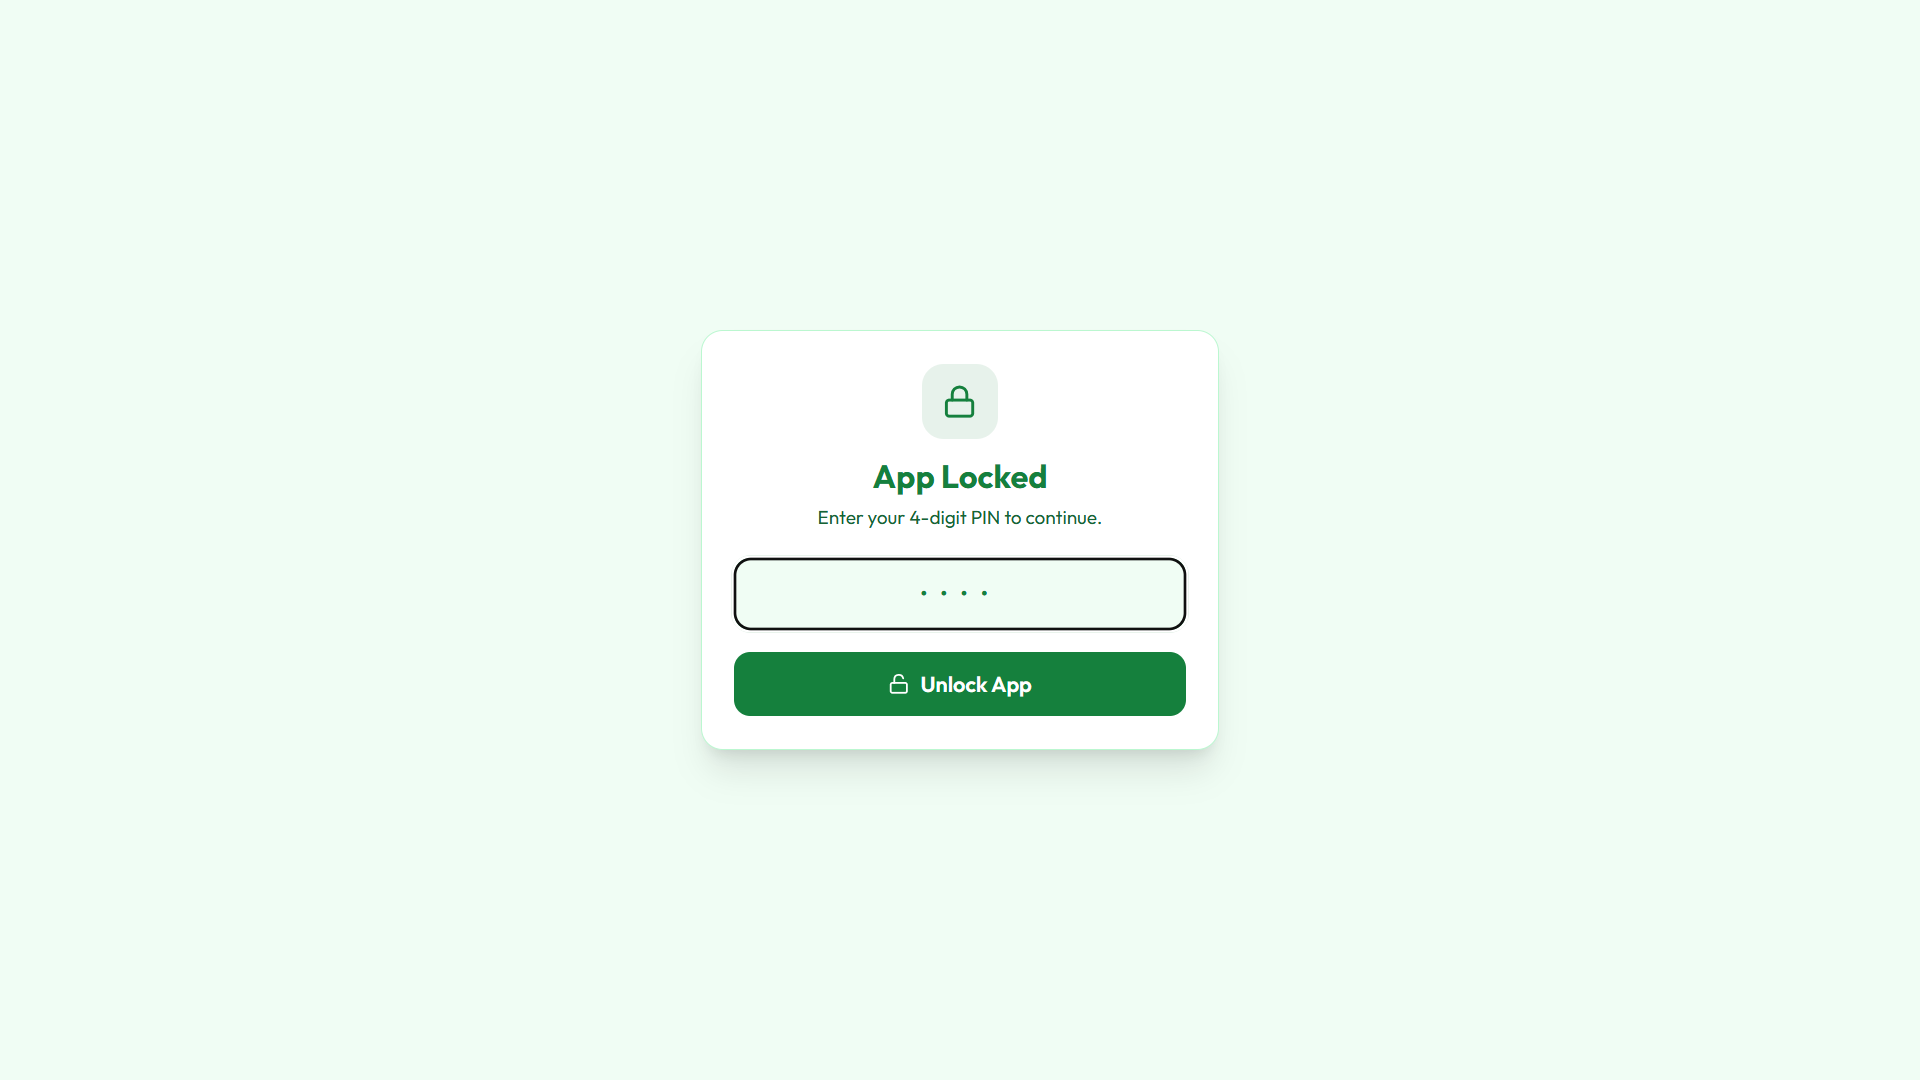
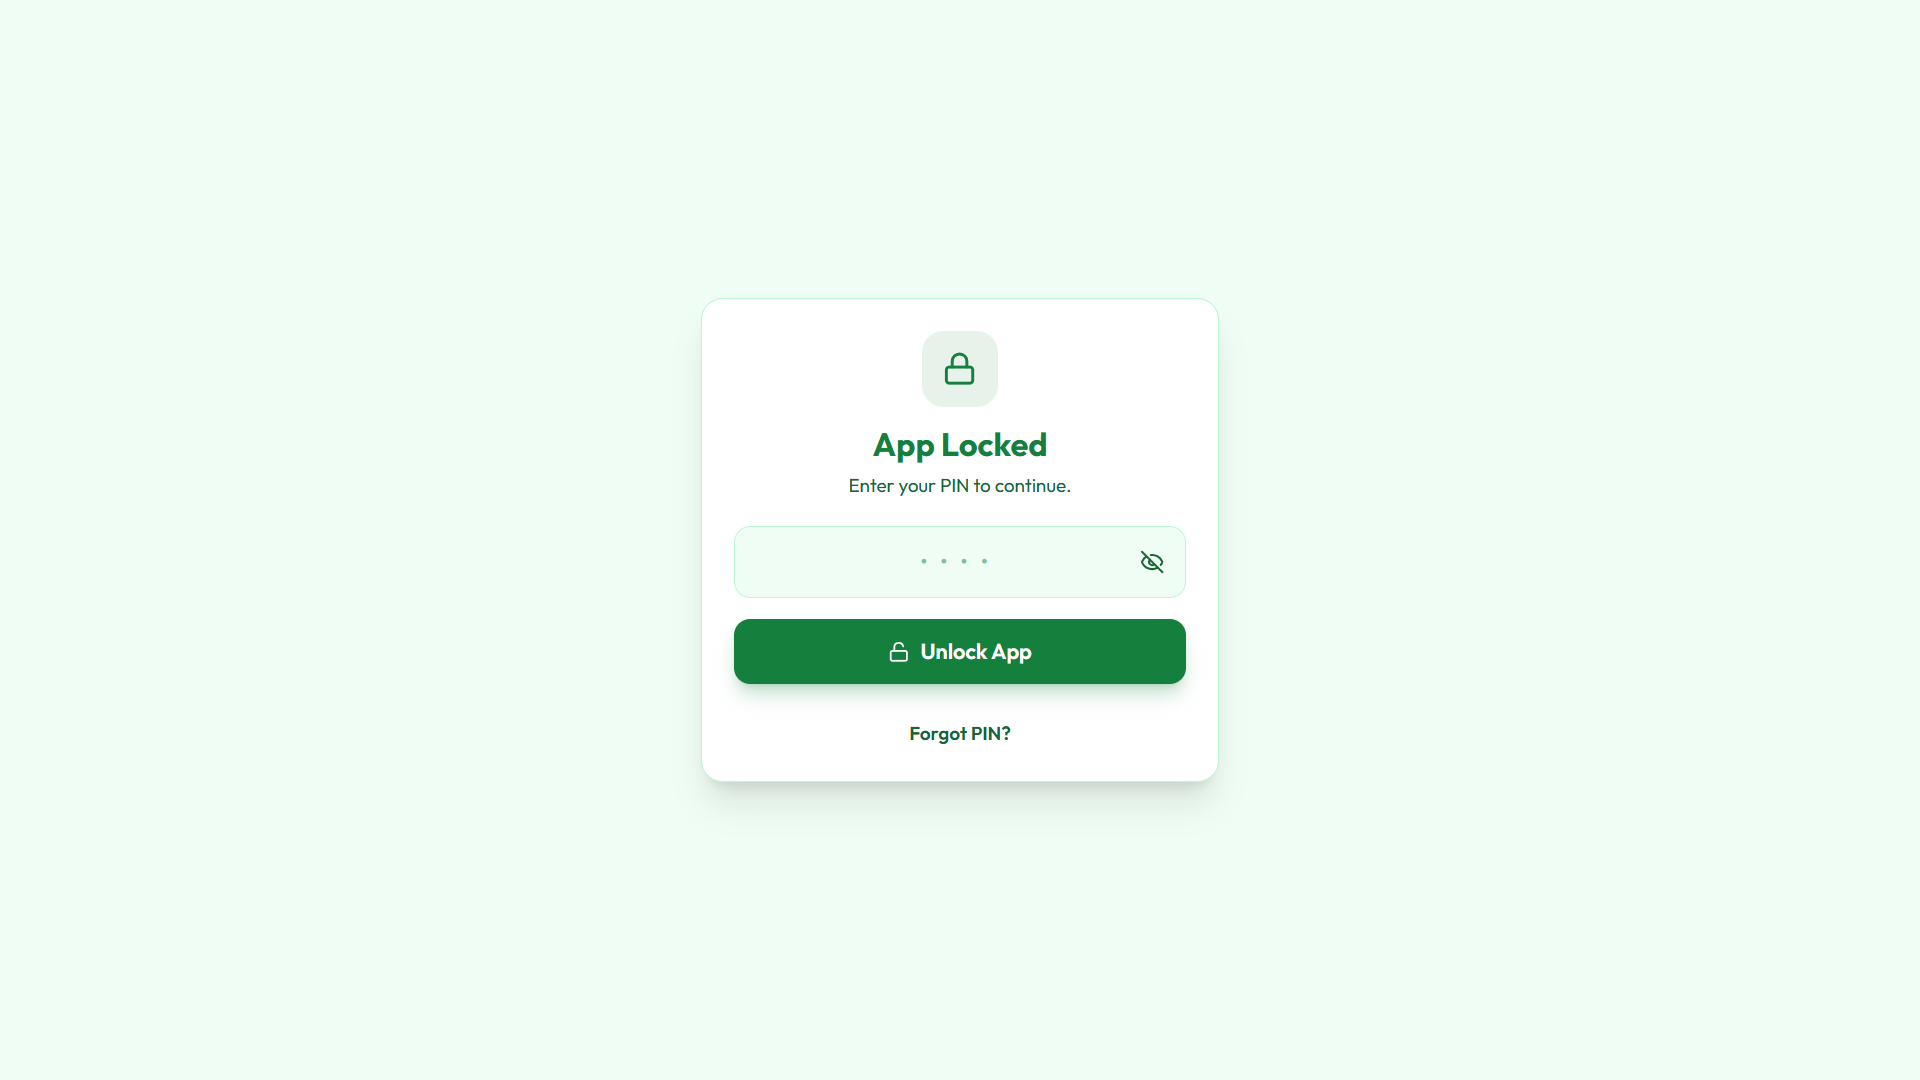
feat: add reset pin feature with dual-factor auth and PIN visibility toggles

Changed region(s): [[0.3438, 0.3972, 0.6562, 0.7333], [0.4688, 0.3361, 0.5312, 0.3667]]

diff --git a/src/pages/ForgotPin.jsx b/src/pages/ForgotPin.jsx
@@ -1,0 +1,237 @@
+import React, { useState } from "react";
+import { ShieldCheck, LockKeyhole, Save, KeyRound, Eye, EyeOff } from "lucide-react";
+import { useAppLock } from "../context/AppLockContext";
+import { useNavigate, Link } from "react-router-dom";
+import { toast } from "sonner";
+
+export default function ForgotPin() {
+  const { verifyIdentity, setOrUpdatePin, lockOptions } = useAppLock();
+  const navigate = useNavigate();
+
+  const [step, setStep] = useState(1);
+
+  // Step 1 State
+  const [password, setPassword] = useState("");
+  const [securityKey, setSecurityKey] = useState("");
+  const [verifying, setVerifying] = useState(false);
+
+  // Step 2 State
+  const [pinLength, setPinLength] = useState(4);
+  const [newPin, setNewPin] = useState("");
+  const [confirmPin, setConfirmPin] = useState("");
+  const [lockMode, setLockMode] = useState("every_open");
+  const [saving, setSaving] = useState(false);
+  const [showPin, setShowPin] = useState(false);
+
+  const durationOptions = Object.entries(lockOptions).map(([id, value]) => ({
+    id,
+    label: value.label,
+  }));
+
+  const handleVerify = async (e) => {
+    e.preventDefault();
+    if (!password || !securityKey) {
+      toast.error("Please enter both password and security key.");
+      return;
+    }
+
+    setVerifying(true);
+    try {
+      const passOk = await verifyIdentity({ method: "password", secret: password });
+      if (!passOk) throw new Error("Invalid Auth");
+
+      const keyOk = await verifyIdentity({ method: "security_key", secret: securityKey });
+      if (!keyOk) throw new Error("Invalid Auth");
+
+      toast.success("Identity verified securely.");
+      setStep(2);
+    } catch (error) {
+      toast.error("Verification failed. Please check your credentials.");
+      setPassword("");
+      setSecurityKey("");
+    } finally {
+      setVerifying(false);
+    }
+  };
+
+  const handleReset = async (e) => {
+    e.preventDefault();
+    if (!/^\d+$/.test(newPin) || newPin.length !== pinLength) {
+      toast.error(`PIN must be exactly ${pinLength} digits.`);
+      return;
+    }
+    if (newPin !== confirmPin) {
+      toast.error("PIN confirmation does not match.");
+      return;
+    }
+
+    setSaving(true);
+    try {
+      await setOrUpdatePin({
+        pin: newPin,
+        pinLength,
+        lockMode,
+        enable: true,
+      });
+      toast.success("App Lock PIN reset successfully.");
+      navigate("/");
+    } catch (error) {
+      toast.error("Failed to reset PIN.");
+    } finally {
+      setSaving(false);
+    }
+  };
+
+  return (
+    <div className="min-h-screen flex items-center justify-center bg-background p-4 pattern-bg">
+      <div className="w-full max-w-md bg-surface border border-border rounded-3xl shadow-2xl p-8 space-y-6">
+        <div className="text-center">
+          <div className="mx-auto mb-4 w-16 h-16 rounded-2xl bg-primary/10 text-primary flex items-center justify-center shadow-inner">
+            {step === 1 ? <ShieldCheck size={32} /> : <LockKeyhole size={32} />}
+          </div>
+          <h1 className="text-2xl font-black text-primary tracking-tight">
+            Forgot PIN
+          </h1>
+          <p className="text-sm text-muted-foreground mt-2 leading-relaxed">
+            {step === 1
+              ? "Verify your identity using your account password and security key to reset your PIN."
+              : "Reconfigure your App Lock securely."}
+          </p>
+        </div>
+
+        {step === 1 ? (
+          <form className="space-y-4" onSubmit={handleVerify}>
+            <div className="space-y-4">
+              <div>
+                <label className="text-xs font-bold text-muted-foreground uppercase tracking-wider mb-1.5 block ml-1">
+                  Account Password
+                </label>
+                <input
+                  type="password"
+                  value={password}
+                  onChange={(e) => setPassword(e.target.value)}
+                  className="w-full p-3.5 rounded-xl border border-border bg-background focus:border-primary focus:ring-2 focus:ring-primary/20 transition-all font-medium"
+                  placeholder="Enter your password"
+                />
+              </div>
+              <div>
+                <label className="text-xs font-bold text-muted-foreground uppercase tracking-wider mb-1.5 block ml-1">
+                  Security Key
+                </label>
+                <input
+                  type="password"
+                  value={securityKey}
+                  onChange={(e) => setSecurityKey(e.target.value)}
+                  className="w-full p-3.5 rounded-xl border border-border bg-background focus:border-primary focus:ring-2 focus:ring-primary/20 transition-all font-medium"
+                  placeholder="Enter your security key"
+                />
+              </div>
+            </div>
+
+            <button
+              type="submit"
+              disabled={verifying || !password || !securityKey}
+              className="w-full py-4 mt-2 bg-primary text-primary-foreground rounded-2xl font-bold disabled:opacity-50 disabled:cursor-not-allowed flex items-center justify-center gap-2 shadow-lg shadow-primary/25 hover:scale-[1.02] active:scale-[0.98] transition-all"
+            >
+              <ShieldCheck size={18} />
+              {verifying ? "Verifying Identity..." : "Continue to Reset"}
+            </button>
+            <div className="text-center pt-2">
+              <Link to="/unlock" className="text-sm font-semibold text-muted-foreground hover:text-primary transition-colors">
+                Back to Unlock
+              </Link>
+            </div>
+          </form>
+        ) : (
+          <form className="space-y-5" onSubmit={handleReset}>
+            <div className="grid grid-cols-2 gap-4">
+              <div>
+                <label className="text-xs font-bold text-muted-foreground uppercase tracking-wider mb-1.5 block ml-1">PIN Length</label>
+                <select
+                  value={pinLength}
+                  onChange={(e) => {
+                    setPinLength(Number(e.target.value));
+                    setNewPin("");
+                    setConfirmPin("");
+                  }}
+                  className="w-full p-3.5 rounded-xl border border-border bg-background font-medium"
+                >
+                  <option value={4}>4-digit</option>
+                  <option value={6}>6-digit</option>
+                  <option value={8}>8-digit</option>
+                </select>
+              </div>
+              <div>
+                <label className="text-xs font-bold text-muted-foreground uppercase tracking-wider mb-1.5 block ml-1">Duration</label>
+                <select
+                  value={lockMode}
+                  onChange={(e) => setLockMode(e.target.value)}
+                  className="w-full p-3.5 rounded-xl border border-border bg-background font-medium text-sm"
+                >
+                  {durationOptions.map((option) => (
+                    <option key={option.id} value={option.id}>
+                      {option.label}
+                    </option>
+                  ))}
+                </select>
+              </div>
+            </div>
+
+            <div className="space-y-4">
+              <div className="relative">
+                <input
+                  type={showPin ? "text" : "password"}
+                  inputMode="numeric"
+                  maxLength={pinLength}
+                  value={newPin}
+                  onChange={(e) => setNewPin(e.target.value.replace(/\D/g, ""))}
+                  placeholder={`Enter new ${pinLength}-digit PIN`}
+                  className="w-full p-3.5 pr-12 rounded-xl border border-border bg-background font-medium tracking-[0.2em] text-center"
+                />
+                <button
+                  type="button"
+                  onClick={() => setShowPin(!showPin)}
+                  className="absolute right-4 top-1/2 -translate-y-1/2 text-muted-foreground hover:text-foreground"
+                >
+                  {showPin ? <Eye size={18} /> : <EyeOff size={18} />}
+                </button>
+              </div>
+              <div className="relative">
+                <input
+                  type={showPin ? "text" : "password"}
+                  inputMode="numeric"
+                  maxLength={pinLength}
+                  value={confirmPin}
+                  onChange={(e) => setConfirmPin(e.target.value.replace(/\D/g, ""))}
+                  placeholder="Confirm new PIN"
+                  className="w-full p-3.5 pr-12 rounded-xl border border-border bg-background font-medium tracking-[0.2em] text-center"
+                />
+                <button
+                  type="button"
+                  onClick={() => setShowPin(!showPin)}
+                  className="absolute right-4 top-1/2 -translate-y-1/2 text-muted-foreground hover:text-foreground"
+                >
+                  {showPin ? <Eye size={18} /> : <EyeOff size={18} />}
+                </button>
+              </div>
+            </div>
+            
+            <div className="bg-surface-hover p-4 rounded-xl border border-border/50 text-xs text-muted-foreground flex items-start gap-2 shadow-inner">
+               <KeyRound size={16} className="mt-0.5 shrink-0 text-primary" />
+               <p>Your new PIN will be secured via robust PBKDF2 hashing. Plain-text PINs are never stored.</p>
+            </div>
+
+            <button
+              type="submit"
+              disabled={saving || !newPin || !confirmPin}
+              className="w-full py-4 mt-2 bg-primary text-primary-foreground rounded-2xl font-bold disabled:opacity-50 disabled:cursor-not-allowed flex items-center justify-center gap-2 shadow-lg shadow-primary/25 hover:scale-[1.02] active:scale-[0.98] transition-all"
+            >
+              <Save size={18} />
+              {saving ? "Saving..." : "Save New PIN"}
+            </button>
+          </form>
+        )}
+      </div>
+    </div>
+  );
+}

diff --git a/src/pages/AppUnlock.jsx b/src/pages/AppUnlock.jsx
@@ -1,23 +1,22 @@
 import React, { useState } from "react";
-import { Lock, Unlock, ShieldAlert } from "lucide-react";
+import { Lock, Unlock, ShieldAlert, Eye, EyeOff } from "lucide-react";
 import { useAppLock } from "../context/AppLockContext";
-import { useNavigate } from "react-router-dom";
+import { useNavigate, Link } from "react-router-dom";
 
 export default function AppUnlock() {
   const [pin, setPin] = useState("");
+  const [showPin, setShowPin] = useState(false);
   const [error, setError] = useState("");
   const [loading, setLoading] = useState(false);
   const { config, unlockWithPin } = useAppLock();
   const navigate = useNavigate();
 
-  const pinLength = config?.pinLength || 4;
-
   const handleUnlock = async (e) => {
     e.preventDefault();
     setError("");
 
-    if (!/^\d+$/.test(pin) || pin.length !== pinLength) {
-      setError(`Enter a valid ${pinLength}-digit PIN.`);
+    if (!pin) {
+      setError("Please enter your PIN.");
       return;
     }
 
@@ -45,34 +44,48 @@ export default function AppUnlock() {
           </div>
           <h1 className="text-2xl font-bold text-primary">App Locked</h1>
           <p className="text-sm text-muted-foreground mt-1">
-            Enter your {pinLength}-digit PIN to continue.
+            Enter your PIN to continue.
           </p>
         </div>
 
         <form className="space-y-4" onSubmit={handleUnlock}>
-          <input
-            type="password"
-            inputMode="numeric"
-            maxLength={pinLength}
-            value={pin}
-            onChange={(e) => setPin(e.target.value.replace(/\D/g, ""))}
-            className="w-full p-3 text-center tracking-[0.5em] text-lg rounded-xl bg-background border border-border focus:border-primary focus:ring-2 focus:ring-primary/20"
-            placeholder={"•".repeat(pinLength)}
-          />
+          <div className="relative">
+            <input
+              type={showPin ? "text" : "password"}
+              inputMode="numeric"
+              maxLength={8}
+              value={pin}
+              onChange={(e) => setPin(e.target.value.replace(/\D/g, ""))}
+              className="w-full p-3 text-center tracking-[0.5em] text-lg rounded-xl bg-background border border-border focus:border-primary focus:ring-2 focus:ring-primary/20"
+              placeholder="••••"
+            />
+            <button
+              type="button"
+              onClick={() => setShowPin(!showPin)}
+              className="absolute right-4 top-1/2 -translate-y-1/2 text-muted-foreground hover:text-foreground"
+            >
+              {showPin ? <Eye size={18} /> : <EyeOff size={18} />}
+            </button>
+          </div>
           {error && (
-            <div className="flex items-center gap-2 text-sm text-red-500">
+            <div className="flex items-center justify-center gap-2 text-sm text-red-500">
               <ShieldAlert size={16} />
               {error}
             </div>
           )}
           <button
             type="submit"
-            disabled={loading || pin.length !== pinLength}
-            className="w-full py-3 bg-primary text-primary-foreground rounded-xl font-semibold disabled:opacity-50 disabled:cursor-not-allowed flex items-center justify-center gap-2"
+            disabled={loading}
+            className="w-full py-3 bg-primary text-primary-foreground rounded-xl font-semibold disabled:opacity-50 disabled:cursor-not-allowed flex items-center justify-center gap-2 shadow-lg shadow-primary/25 hover:scale-[1.02] active:scale-[0.98] transition-all"
           >
             <Unlock size={16} />
             {loading ? "Unlocking..." : "Unlock App"}
           </button>
+          <div className="text-center pt-2">
+            <Link to="/forgot-pin" className="text-sm font-semibold text-muted-foreground hover:text-primary transition-colors">
+              Forgot PIN?
+            </Link>
+          </div>
         </form>
       </div>
     </div>

diff --git a/src/App.jsx b/src/App.jsx
@@ -11,6 +11,7 @@ import TaskDetails from "./pages/TaskDetails";
 import DeviceActivity from "./pages/DeviceActivity";
 import AppLockSettings from "./pages/AppLockSettings";
 import AppUnlock from "./pages/AppUnlock";
+import ForgotPin from "./pages/ForgotPin";
 import Notes from "./pages/Notes";
 import ProtectedRoute from "./components/ProtectedRoute";
 import SecurityRoute from "./components/SecurityRoute";
@@ -90,6 +91,14 @@ export default function App() {
           element={
             <ProtectedRoute>
               <AppUnlock />
+            </ProtectedRoute>
+          }
+        />
+        <Route
+          path="/forgot-pin"
+          element={
+            <ProtectedRoute>
+              <ForgotPin />
             </ProtectedRoute>
           }
         />

diff --git a/src/pages/AppLockSettings.jsx b/src/pages/AppLockSettings.jsx
@@ -245,10 +245,7 @@ export default function AppLockSettings() {
           </form>
         </div>
 
-        <div className="p-4 rounded-2xl border border-border bg-surface text-xs text-muted-foreground flex items-start gap-2">
-          <KeyRound size={14} className="mt-0.5" />
-          PIN is stored as a secure hash with salt. Plain PIN is never stored.
-        </div>
+
       </div>
     </Layout>
   );

diff --git a/src/components/ProtectedRoute.jsx b/src/components/ProtectedRoute.jsx
@@ -19,7 +19,7 @@ export default function ProtectedRoute({ children }) {
 
   if (loading) return null;
 
-  if (isLocked && location.pathname !== "/unlock") {
+  if (isLocked && location.pathname !== "/unlock" && location.pathname !== "/forgot-pin") {
     return <Navigate to="/unlock" replace />;
   }
 

diff --git a/README.md b/README.md
@@ -74,7 +74,7 @@ Security isn't a feature; it's the foundation.
 - **🔐 Dual-Phase Login**: After standard Firebase Authentication, a secondary **Security Key** verifies the database access permission.
 - **🔒 App Lock System**: Configurable PIN-lock (4/6/8 digits) with "Session-based" or "Duration-based" timeouts.
   - **🛠 Full In-App Control**: Once the app is unlocked, you have **full authority** to update, change, or disable your PIN at any time.
-  - **🚫 Forbidden Reset Policy**: For maximum security, there is **no "Forgot PIN" option**. Access must be regained manually via the Firebase Console (Owner only).
+  - **🔑 Secure Reset Policy**: User can reset PIN using both password and security key simultaneously. This prevents unauthorized users from altering the lock without full credentials.
 - **🕵 Device Audit**: A comprehensive real-time log of every browser and device that has accessed your account, with unique identifiers and session tracking.
 - **💰 Spark Plan Optimized**: Engineered to run efficiently on the **Firebase Free (Spark) Tier**, giving you a production-ready system with $0 infrastructure costs.
 
